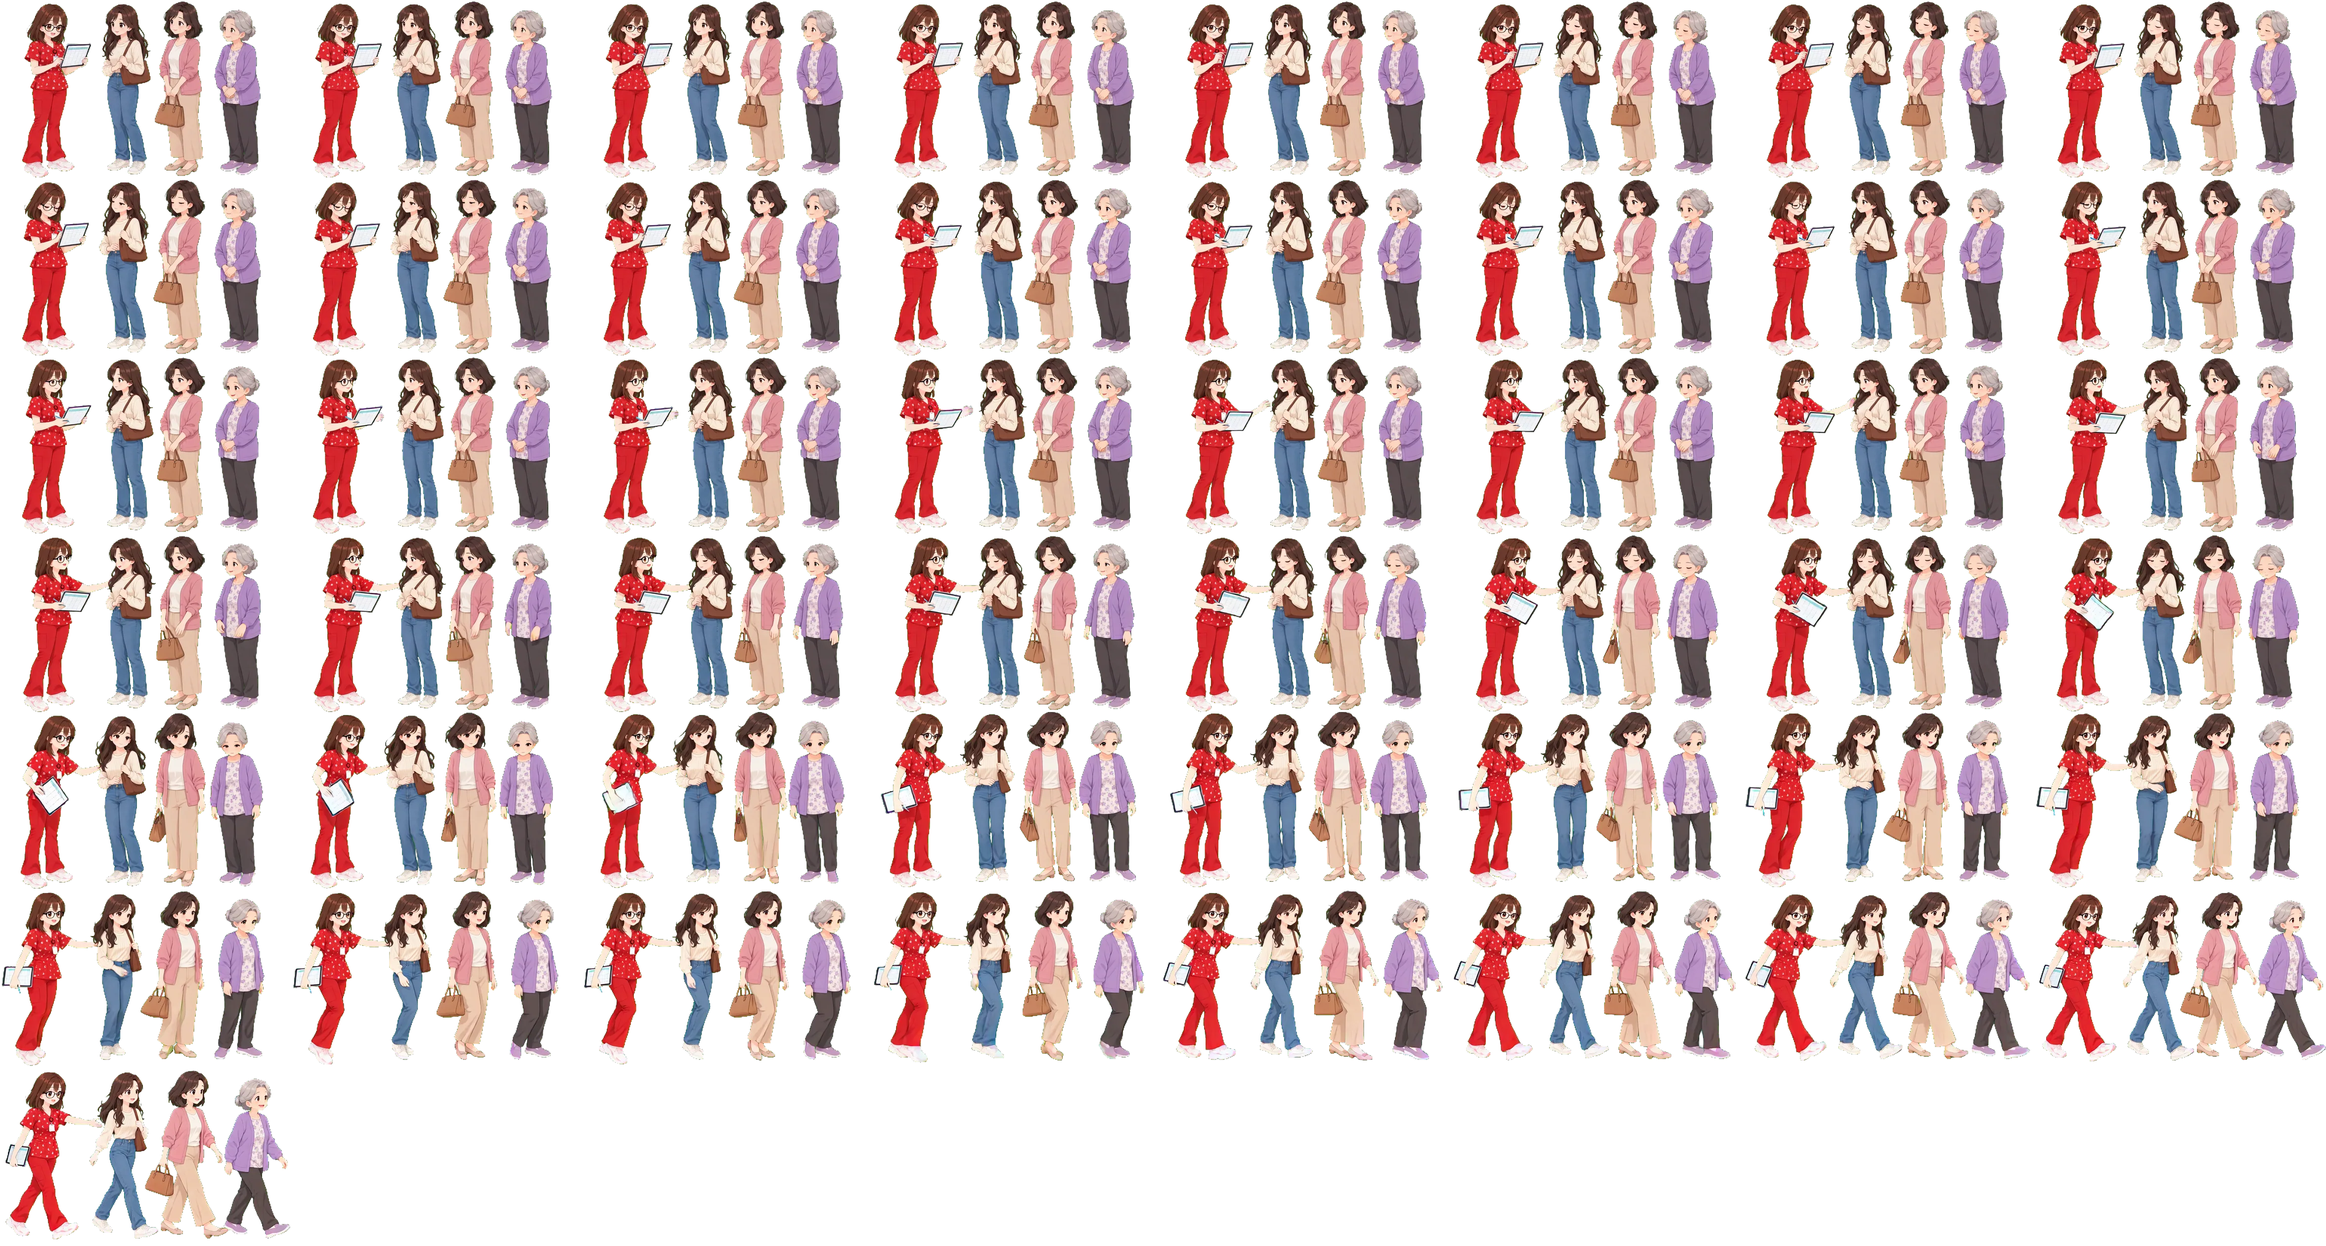
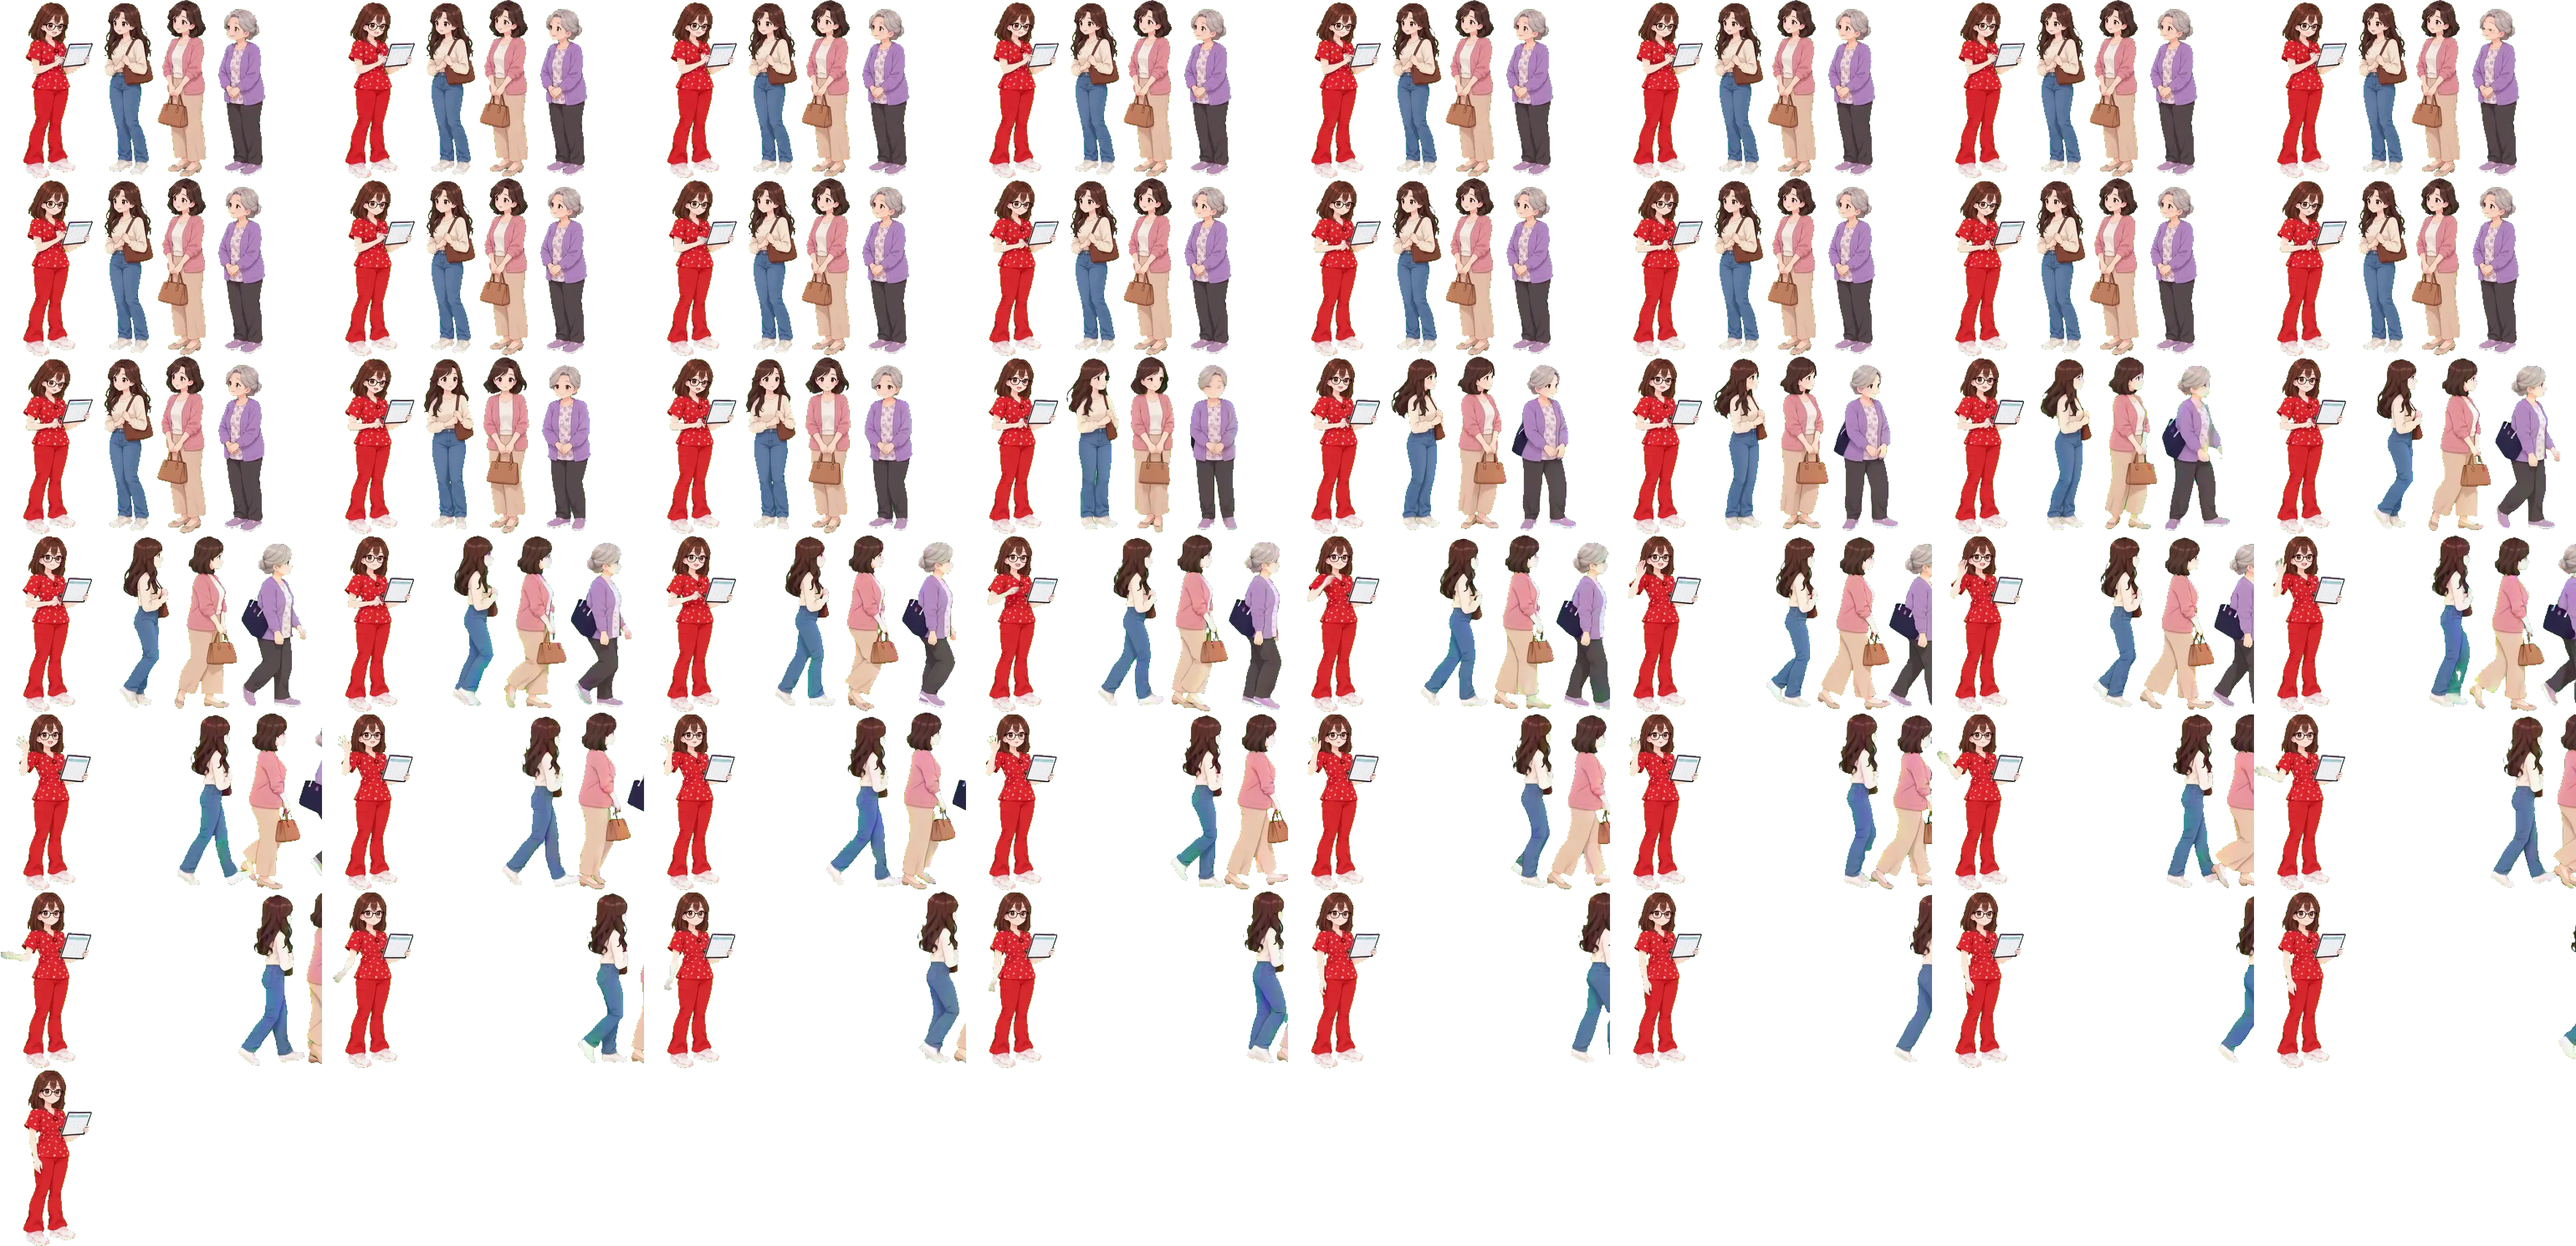
Capítulo III: la matrona atiende a las mujeres y se despide desde su lugar mientras ellas se van

diff --git a/cuento.js b/cuento.js
@@ -547,7 +547,7 @@
         { actor: 'ccc', x: 64, alto: 16, de: 0, a: 1, ms: 4500 }                      // a la derecha: graba el video para las familias
       ] },
       { fondo: 'assets/cuento/cap2/g05f-fondo.webp', suelo: 'assets/cuento/cap2/g05f-suelo.webp', pasos: [
-        { actor: 'ssm', x: 36, alto: 16, de: 0, a: 1, ms: 4500 }                      // a la izquierda: guía a las mujeres hacia el camión
+        { actor: 'ssm', x: 40, alto: 16, de: 0, a: 1, ms: 4500 }                      // la matrona las atiende y se despide desde su lugar; ellas se van al camión
       ] }
     ] },
   };

diff --git a/index.html b/index.html
@@ -32,7 +32,7 @@
   <script src="fondo-acuarela.js?v=20261007a" defer></script>
   <script src="secciones.js?v=20261017a" defer></script>
   <script src="libro.js?v=20261013b" defer></script>
-  <script src="cuento.js?v=20261019c" defer></script>
+  <script src="cuento.js?v=20261020a" defer></script>
   <script src="vendor/gsap.min.js" defer></script>
   <script src="vendor/MotionPathPlugin.min.js" defer></script>
   <script src="intro-trazos.js?v=20260929c" defer></script>
